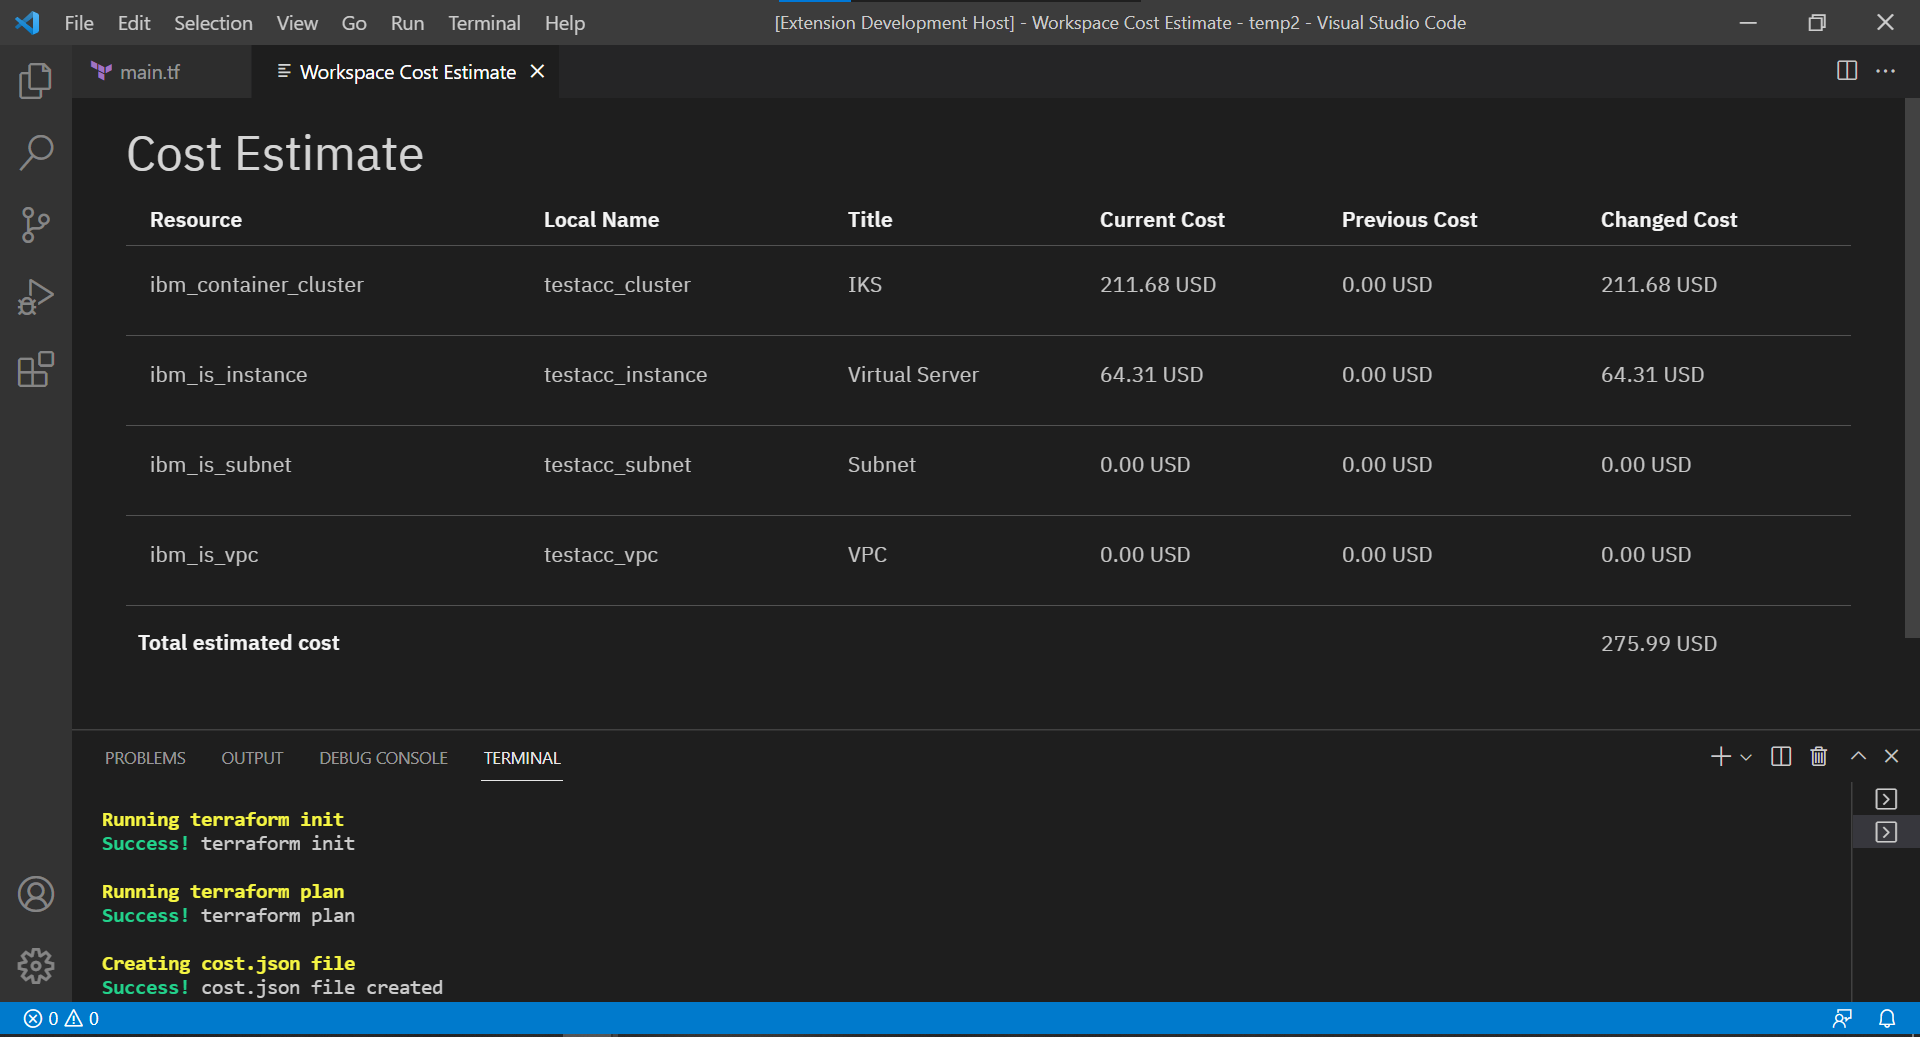
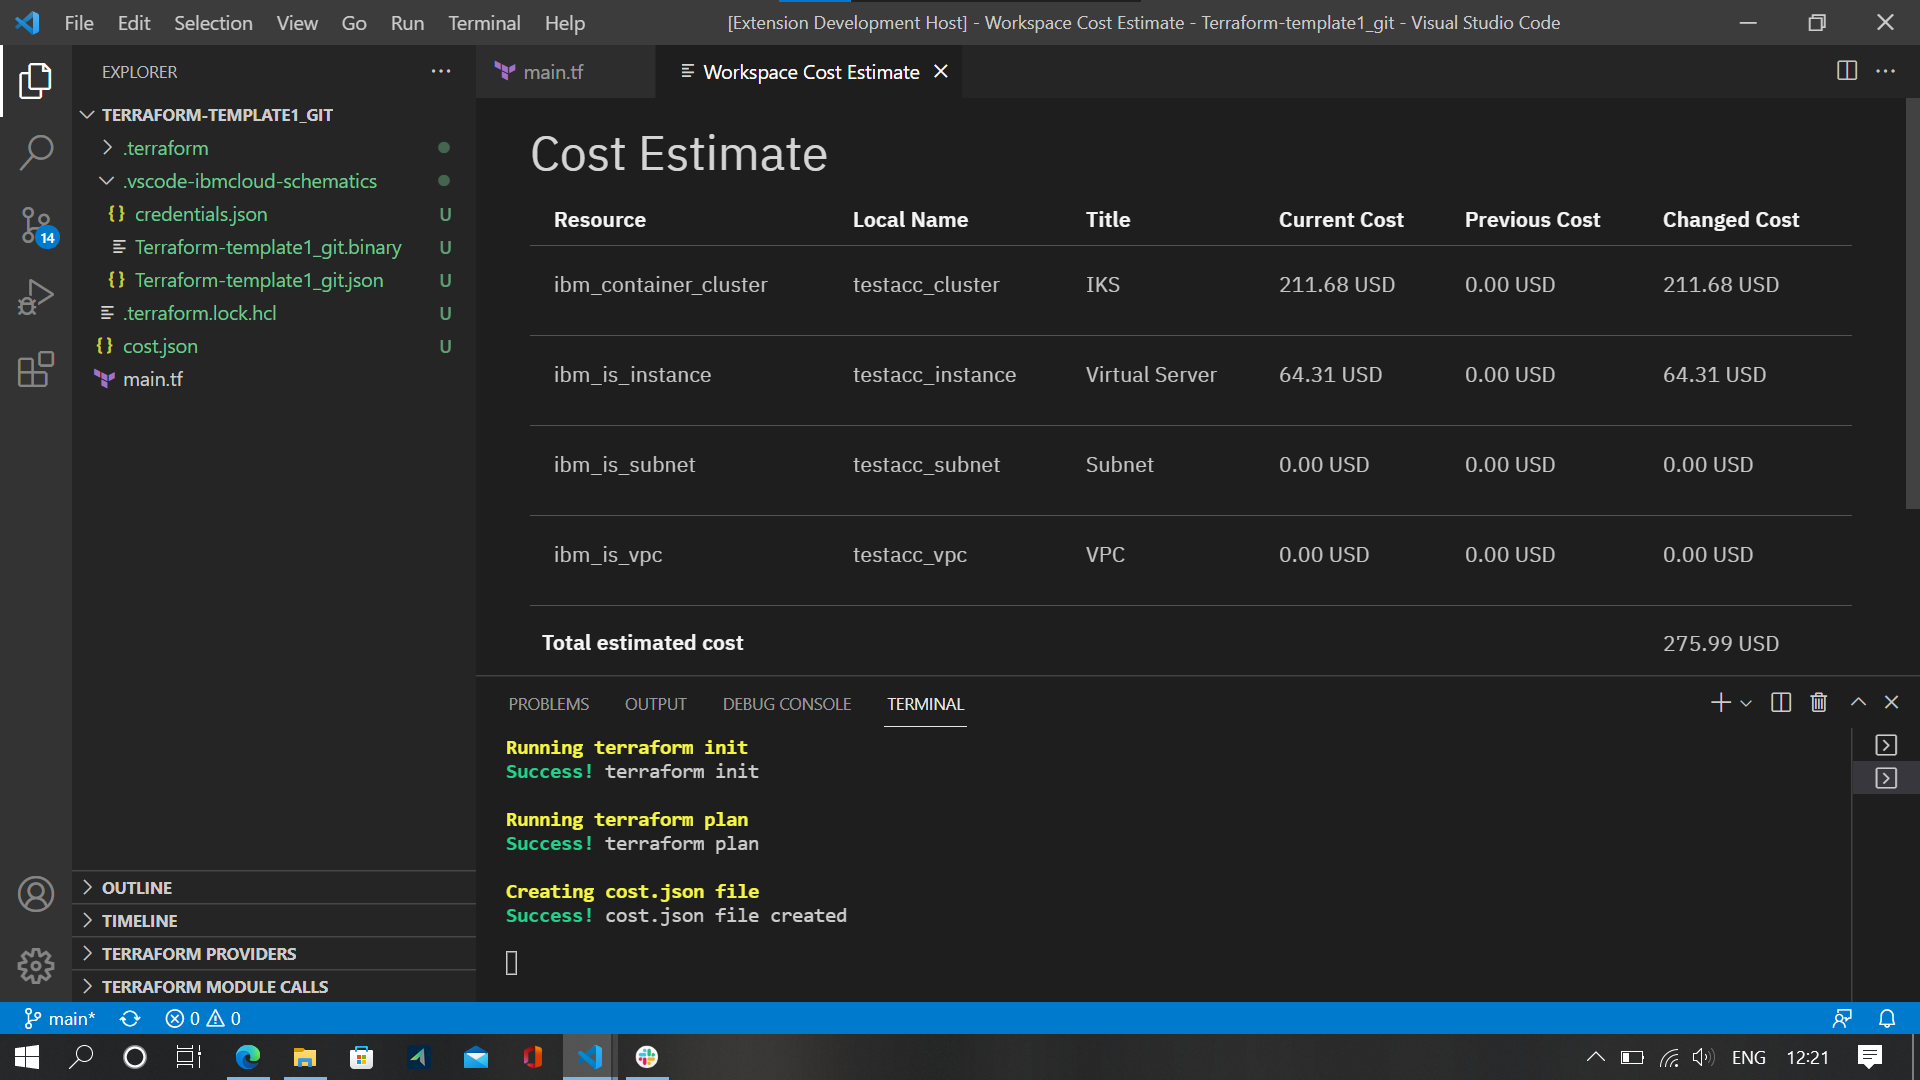
Review related changes

diff --git a/extension-ui/src/components/workspace/estimateCost/index.js b/extension-ui/src/components/workspace/estimateCost/index.js
@@ -3,15 +3,12 @@ import {
   StructuredListHead,
   StructuredListBody,
   StructuredListRow,
-  StructuredListCell,
-  Tooltip,
+  StructuredListCell
 } from 'carbon-components-react';
 const mockData = require('./mock.json');
 
-
 const EstimateCost = ({ result }) => {
     result = result ? result : mockData;
-    
     return (
         <div className="bx--cost_detail">
             <h2>Cost Estimate</h2>
@@ -34,22 +31,14 @@ const EstimateCost = ({ result }) => {
                             <StructuredListCell>{item.terraformItemId}</StructuredListCell>
                             <StructuredListCell>{item.id}</StructuredListCell>
                             <StructuredListCell>{item.title}</StructuredListCell>
-                            <StructuredListCell>{item.currlineitemtotal.toFixed(2)} {result?.currency}{item.rateCardCost?"*":""}</StructuredListCell>
-                            <StructuredListCell>{item.prevlineitemtotal.toFixed(2)} {result?.currency}{item.rateCardCost?"*":""}</StructuredListCell>
-                            <StructuredListCell>{item.changelineitemtotal.toFixed(2)} {result?.currency}{item.rateCardCost?"*":""}</StructuredListCell>
+                            <StructuredListCell>{item.currlineitemtotal.toFixed(2)} {result?.currency}{item.rateCardCost?" *":""}</StructuredListCell>
+                            <StructuredListCell>{item.prevlineitemtotal.toFixed(2)} {result?.currency}{item.rateCardCost?" *":""}</StructuredListCell>
+                            <StructuredListCell>{item.changelineitemtotal.toFixed(2)} {result?.currency}{item.rateCardCost?" *":""}</StructuredListCell>
                         </StructuredListRow>
                         ))}
                         <StructuredListRow key={result?.Lineitem.length+1}></StructuredListRow>
-                        <StructuredListCell head>  
-                            <Tooltip
-                                direction="bottom"
-                                triggerText="Total estimated cost"
-                            >
-                                <p style={{padding:'2px',fontSize:"15px" ,width:'170px',background: '#0f62fe'}}>
-                                    The cost displayed here are just an estimated cost not an actual cost.
-                                    * indicated cost has been derived from ratecard
-                                </p>
-                            </Tooltip>
+                        <StructuredListCell head>  Total estimated cost
+                        
                         </StructuredListCell>
                         <StructuredListCell></StructuredListCell>
                         <StructuredListCell></StructuredListCell>
@@ -57,8 +46,14 @@ const EstimateCost = ({ result }) => {
                         <StructuredListCell></StructuredListCell>
                         <StructuredListCell >{`${result?.totalcost.toFixed(2)} ${result?.currency}`} 
                         </StructuredListCell>
-                    </StructuredListBody>     
+                    </StructuredListBody>
+                    
                 </StructuredListWrapper>
+                <p>
+                    The cost displayed here are just an estimated cost not an actual cost. <br/>
+                    * indicated cost has been derived from ratecard
+                </p>
+                
 
             </div>
            

diff --git a/extension-client/src/command/workspace/estimateCost.ts b/extension-client/src/command/workspace/estimateCost.ts
@@ -15,11 +15,10 @@
  * limitations under the License.
  */
 
- import * as vscode from 'vscode';
+import * as vscode from 'vscode';
 import { estimateCost } from '../../command/shell/terraform/index';
 import EstimateCostView from '../../webview/workspace/EstimateCostView';
 
- 
 export async function cost(context: vscode.ExtensionContext): Promise<void> {
     try {
             const writeEmitter = new vscode.EventEmitter<string>();
@@ -35,8 +34,7 @@ export async function cost(context: vscode.ExtensionContext): Promise<void> {
                 close: () => {}
             };
             await (<any>vscode.window).createTerminal({ pty }).show();
-            
-    }
+        }
     catch(error){
         console.log(error);
         vscode.window.showErrorMessage(String(error));

diff --git a/extension-client/src/api/index.ts b/extension-client/src/api/index.ts
@@ -20,9 +20,6 @@ const schematicsV1 = require('@ibm-cloud/ibm-schematics/dist/schematics/v1');
 import * as auth from '../auth/auth';
 import * as type from '../type/index';
 import * as util from '../util';
-import * as shell from '../command/shell';
-import { posix } from 'path';
- import * as vscode from 'vscode';
 
 var os = require('os');
 
@@ -249,7 +246,6 @@ export async function pullLatest(data: any) {
 export async function versions() {
     
     const schematicsService = await auth.getSchematicsService();
-    
     return new Promise((resolve, reject) => {
         schematicsService
             .getSchematicsVersion()

diff --git a/extension-client/src/command/shell/terraform/index.ts b/extension-client/src/command/shell/terraform/index.ts
@@ -15,13 +15,10 @@
  * limitations under the License.
  */
 
-import * as vscode from 'vscode';
 import * as shell from '..';
 import * as util from '../../../util';
 import { path } from '../../../util/workspace';
-import { cost } from '../../workspace/estimateCost';
 var os = require('os');
-
 
 const TERRAFORM_INIT_COMMAND = 'terraform init';
 const TERRAFORM_VALIDATE_COMMAND = 'terraform validate';

diff --git a/extension-client/src/webview/workspace/EstimateCostView.ts b/extension-client/src/webview/workspace/EstimateCostView.ts
@@ -15,9 +15,9 @@
  * limitations under the License.
  */
 
- import * as vscode from 'vscode';
- import { ReactView } from '../ReactView';
- import * as util from '../../util';
+import * as vscode from 'vscode';
+import { ReactView } from '../ReactView';
+import * as util from '../../util';
 import { path } from '../../util/workspace';
  
  export default class EstimateCostView extends ReactView {

diff --git a/tutorial/README.md b/tutorial/README.md
@@ -204,10 +204,18 @@ You can also open the latest job/activity log by:
 **How to perform cost estimation?**
 
 1. Download [tfcost Binary](https://github.com/IBM-Cloud/terraform-cost-estimator/releases) & put the binary in your PATH
-2. Select View > Command Palette... from VS Code menu bar ( Keyboard Shortcut: ⇧⌘P )
-3. Select IBM Cloud Schematics workspace: Estimate Cost
-4. Select target API to deploy. Here select cloud.ibm.com from the picker
-5. Enter API key. Type in your cloud.ibm.com API key and hit enter
-6. A new WebView with estimated cost of all resources is displayed
+2. Launch Visual Studio Code
+3. Select Terminal > Run Task... , this will open VS Code Tasks dropdown
+4. In the VS Code Tasks search text box , search for “ibmcloud-schematics”
+5. Select ibmcloud-schematics-build > schematics:clone
+6. Select the folder where you want to clone https://github.com/Cloud-Schematics/vpc-cluster-edge-pool
+7. Enter https://github.com/Cloud-Schematics/vpc-cluster-edge-pool and hit enter
+8. A new VS Code window will open with the cloned https://github.com/Cloud-Schematics/vpc-cluster-edge-pool
+9. Add the required inputs in variable.tf file
+10. Select View > Command Palette... from VS Code menu bar ( Keyboard Shortcut: ⇧⌘P )
+11. Select IBM Cloud Schematics workspace: Estimate Cost
+12. Select target API to deploy. Here select cloud.ibm.com from the picker
+13. Enter API key. Type in your cloud.ibm.com API key and hit enter
+14. A new WebView with estimated cost of all resources is displayed
 
 ![](images/image20-how-to-view-estimated-cost-from-editor.png)
